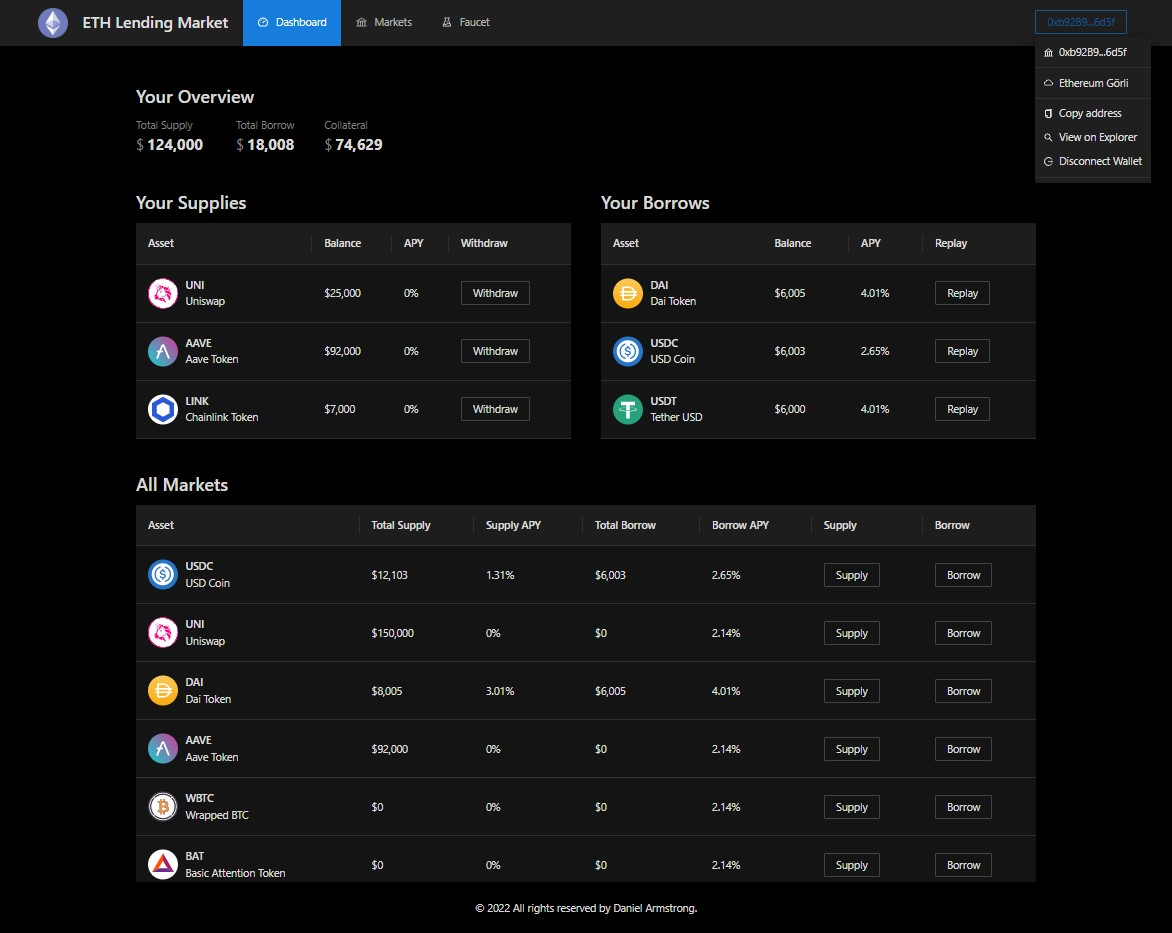
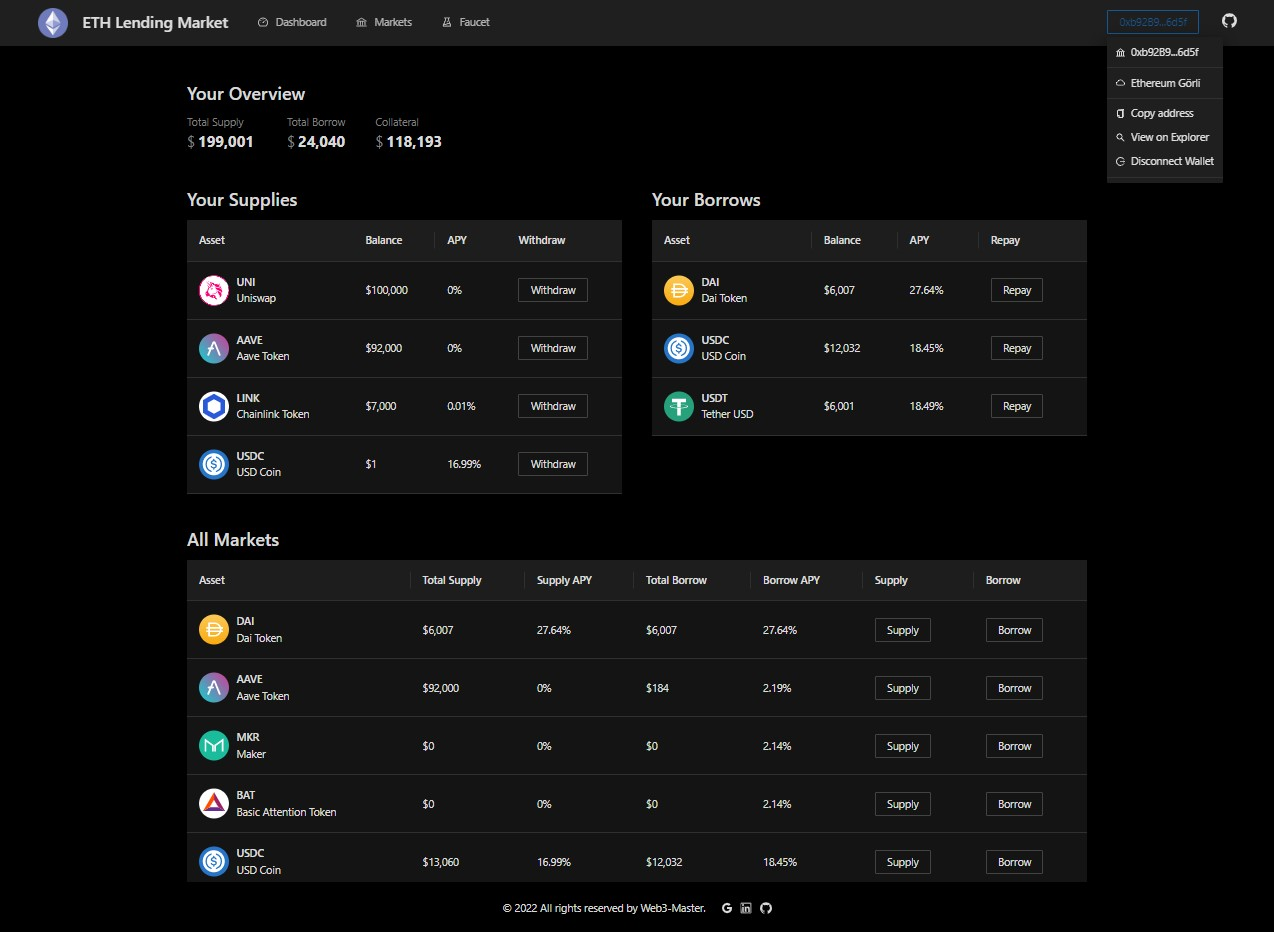
update link and screenshot.

diff --git a/packages/dapp/src/constants/Links.ts b/packages/dapp/src/constants/Links.ts
@@ -1,4 +1,4 @@
-export const GMAIL = "mailto:dany.armstrong90@gmail.com";
-export const LINKEDIN = "https://www.linkedin.com/in/daniel-armstrong90/";
-export const GITHUB = "https://github.com/dany-armstrong";
-export const GITHUB_PROJECT = "https://github.com/dany-armstrong/eth-lending-market";
+export const GMAIL = "mailto:sasaki-kenski@outlook.com";
+export const LINKEDIN = "https://www.linkedin.com/in/sasaki-kenski/";
+export const GITHUB = "https://github.com/web3-master";
+export const GITHUB_PROJECT = "https://github.com/web3-master/eth-lending-market";

diff --git a/packages/dapp/src/layout/AppLayout.tsx b/packages/dapp/src/layout/AppLayout.tsx
@@ -53,7 +53,7 @@ const AppLayout = ({children}: { children: ReactNode }) => {
                             textAlign: 'center'
                         }}
                     >
-                        © 2022 All rights reserved by Daniel Armstrong.
+                        © 2022 All rights reserved by Web3-Master.
                         <a href={GMAIL} rel="noopener noreferrer"><GoogleOutlined
                             style={{fontSize: 16, marginLeft: 20}}/></a>
                         <a href={LINKEDIN} target="_blank"

diff --git a/README.md b/README.md
@@ -1,6 +1,6 @@
-![🏆](https://github.com/dany-armstrong/eth-lending-market/blob/master/dashboard.jpg?raw=true)
-![🏆](https://github.com/dany-armstrong/eth-lending-market/blob/master/markets.jpg?raw=true)
-![🏆](https://github.com/dany-armstrong/eth-lending-market/blob/master/dai-detail.jpg?raw=true)
+![🏆](https://github.com/web3-master/eth-lending-market/blob/master/dashboard.jpg?raw=true)
+![🏆](https://github.com/web3-master/eth-lending-market/blob/master/markets.jpg?raw=true)
+![🏆](https://github.com/web3-master/eth-lending-market/blob/master/dai-detail.jpg?raw=true)
 
 # 🏆🏆🏆 Eth Lending Market 🏆🏆🏆
 
